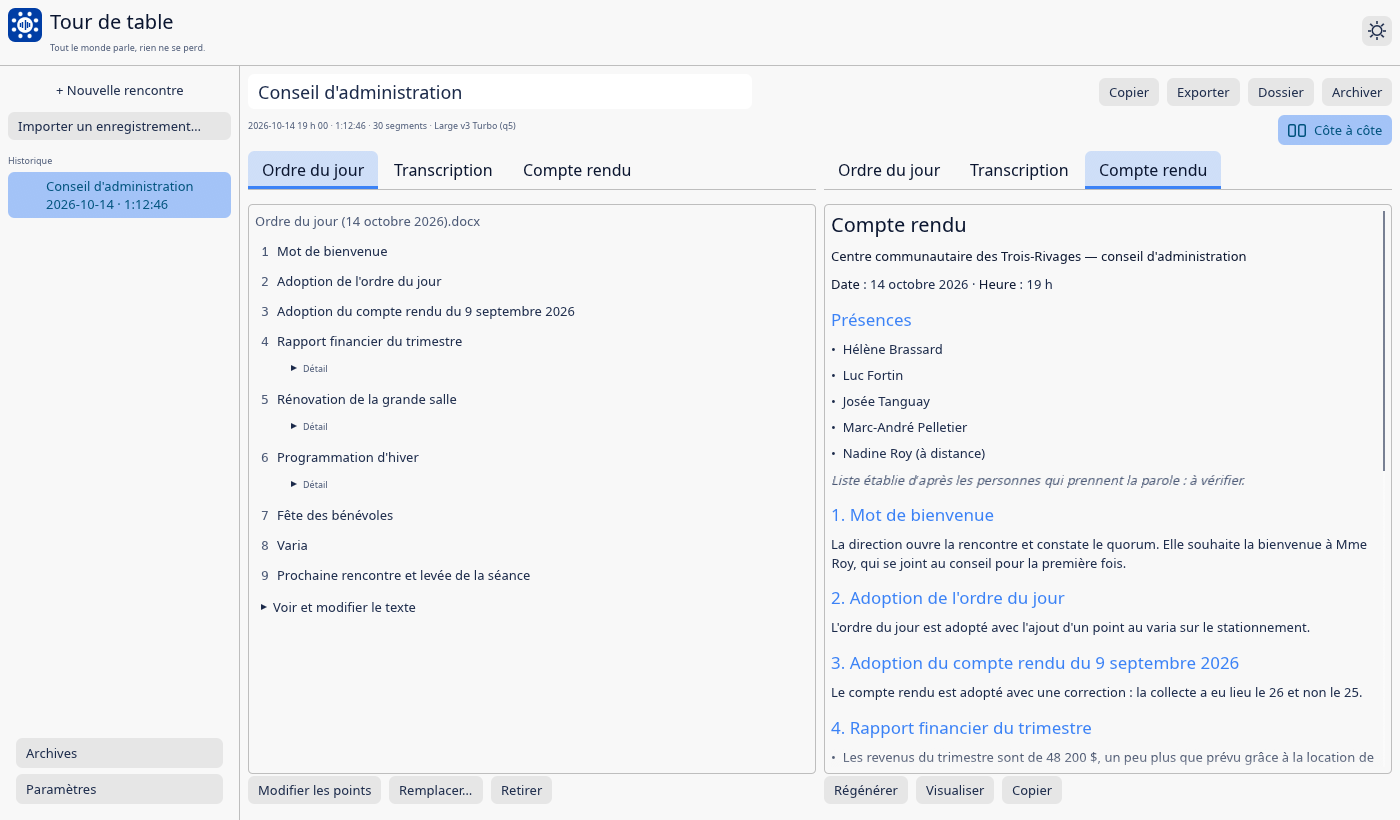
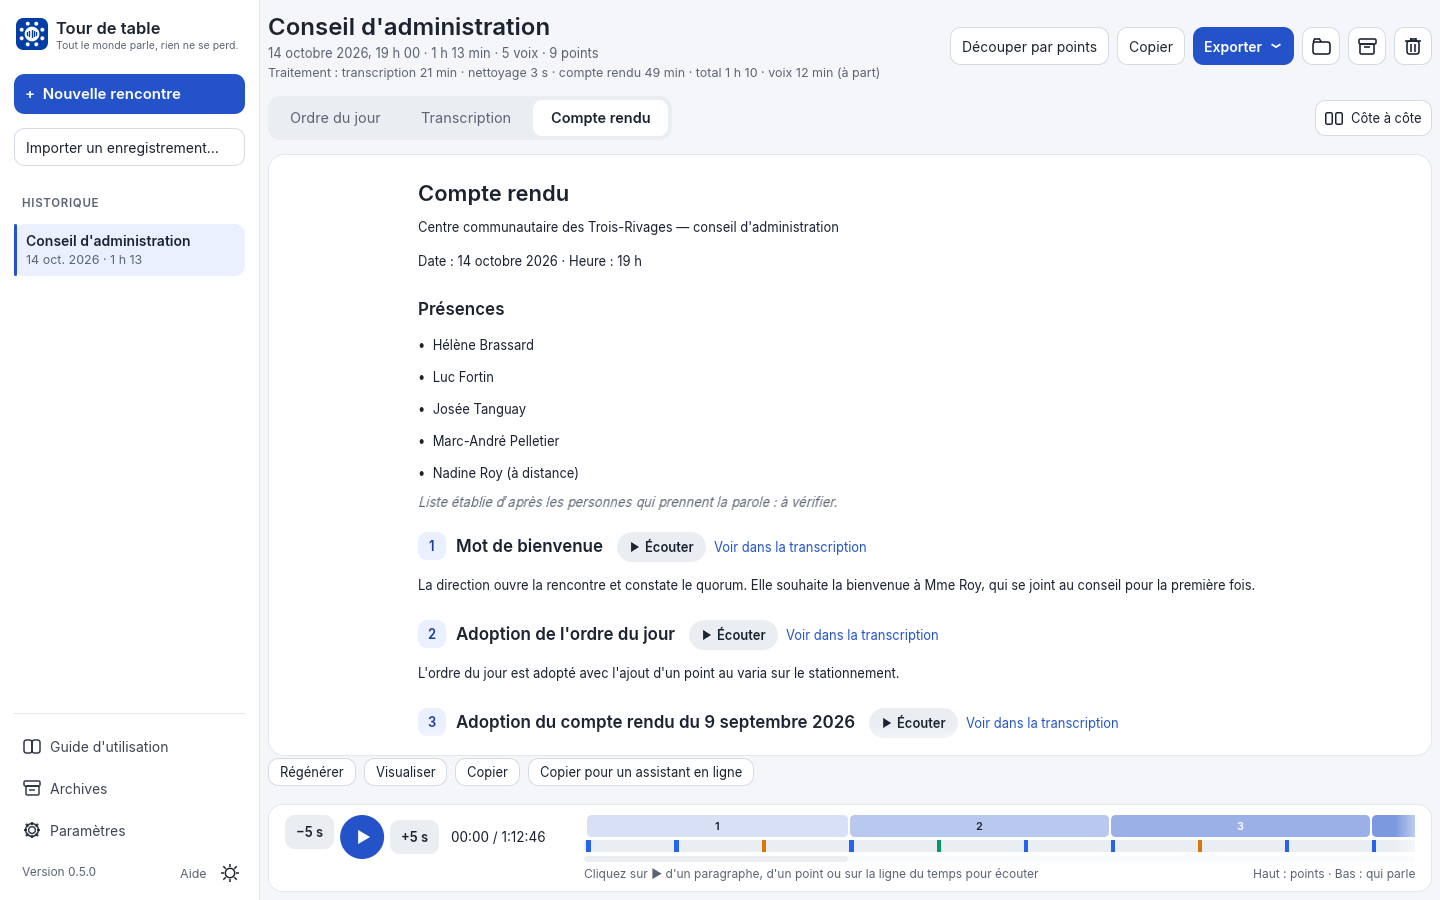
README : capture et textes de la nouvelle interface (0.5)
Capture du compte rendu tirée du guide 0.5.1 (rencontre fictive). Voix en direct,
présences tirées des voix nommées, écran « Nouvelle rencontre », découpage dans la
transcription, lecteur au bas de la fiche, bouton du thème, modèle de rédaction et
liste des fichiers mis à jour. Aucune nouvelle version.

diff --git a/README.md b/README.md
@@ -34,7 +34,7 @@ Inspiré de [Meetily](https://github.com/Zackriya-Solutions/meetily), réécrit 
 | Interface | WebView (navigateur embarqué) | egui natif (rendu GPU) |
 | Taille | Plusieurs centaines de Mo | **42 Mo** à télécharger sous Windows, 11 Mo sous macOS et Linux (whisper.cpp et llama.cpp inclus) |
 | RAM au repos | WebView + Python | **~0,7 Go**, modèle Whisper déjà chargé (démarrage instantané) |
-| Compte rendu | Ollama ou service infonuagique à configurer | **Qwen3.5 9B ou Qwen3.6 35B intégré**, rédigé point par point selon l'ordre du jour |
+| Compte rendu | Ollama ou service infonuagique à configurer | **Qwen3.6 35B-A3B intégré** (Qwen3.5 9B sur les Mac de moins de 24 Go), rédigé point par point selon l'ordre du jour |
 | Langue | Générique | **Français québécois** (invite, typographie OQLF, lexique) |
 
 ## Pourquoi Rust?
@@ -134,7 +134,14 @@ Pour une rencontre plus ancienne : bouton « Reconnaître les voix » de l'ongle
 * Réglage fixe, sans paramètre : les voix de moins de 30 secondes de parole (rires, deux personnes à
   la fois) sont écartées. Sur trois rencontres d'essai, on retrouve le nombre de personnes, parfois
   avec une voix de plus ; un changement de volume ne change presque rien.
-* Le compte rendu ne lit pas encore les voix : leur effet sur la rédaction reste à mesurer.
+* Le compte rendu se sert des voix nommées pour les présences ; le texte rédigé ne lit pas encore les voix : leur
+  effet sur la rédaction reste à mesurer.
+
+**Voix en direct.** Pendant un enregistrement ou un import, Tour de table montre déjà qui parle : pastilles en
+pointillé dans la transcription et carte « Qui parle », où l'on peut nommer les voix sans attendre la fin. Ces voix
+sont provisoires (recalculées chaque minute, une voix apparaît après 30 s de parole) ; à la fin, le calcul complet
+les remplace et reprend les noms donnés aux voix qui parlent aux mêmes moments. Le calcul tourne dans un processus
+à part, sur un seul cœur (environ 4 % du temps réel).
 
 ## Ordre du jour et compte rendu
 
@@ -251,7 +258,8 @@ d'impression), `couverture.html` et des captures de `docs/guide/captures/` (thè
    Internet, et elle n'a lieu qu'une fois (Hugging Face). Vous pouvez fermer l'application en
    cours de route : l'installation reprend là où elle s'était arrêtée au démarrage suivant.
 2. Au besoin, choisissez le micro et la sortie audio dans **Paramètres** (« Par défaut » convient
-   le plus souvent), puis cliquez sur **Démarrer**.
+   le plus souvent). Sur l'écran **Nouvelle rencontre**, déposez l'ordre du jour si vous l'avez, cochez ce qu'on
+   enregistre (micro de la salle, son de l'ordinateur), puis cliquez sur **Démarrer l'enregistrement**.
 3. La transcription s'affiche au fil de la rencontre et elle est sauvegardée après chaque phrase.
    Vous ne perdez donc rien en cas de panne.
 4. À l'arrêt : **Rédiger le compte rendu** (modèle de langue local), **Exporter** (Markdown,
@@ -267,10 +275,10 @@ transcrits l'un après l'autre (la progression s'affiche par bloc).
 
 À la fin de la transcription, avec un ordre du jour, l'application range l'audio par point
 d'après les annonces reconnues (« on passe au point 3… »), sans rien demander. Sans ordre du
-jour, tout reste hors point. Le bouton « Découper par points » de la fiche ouvre au besoin un
-écran de vérification : l'heure de début de chaque point et la phrase qui l'a déclenchée ; on
-peut écouter 10 s autour de chaque frontière, la déplacer, en ajouter ou en retirer, puis
-valider.
+jour, tout reste hors point. Pour corriger, le bouton « Découper par points » de la fiche affiche la
+transcription ligne par ligne : un clic sur une ligne y fait commencer un point, un clic sur l'en-tête d'un point
+permet d'en changer, de le déplacer d'une ligne ou de le retirer, et le lecteur fait entendre le passage.
+« Valider le découpage » range ensuite l'audio par point.
 
 **Compte rendu automatique** : si un ordre du jour est joint (déposé avant l'import ou avant de
 démarrer la rencontre), le compte rendu est rédigé dès la fin du nettoyage de la transcription
@@ -284,14 +292,15 @@ autre fenêtre. Sous Windows, l'icône montre aussi l'avancement de l'import et 
 comme une barre de progression. Le bouton **Visualiser** de la fiche ouvre le compte rendu dans
 Word (`compte-rendu.docx`).
 
-**Réécouter** : dans l'onglet Transcription, le bouton ▶ d'un paragraphe fait entendre son audio ; dans le compte
-rendu d'une rencontre découpée par points, chaque titre de point a un bouton ▶ (l'audio du point, tous ses
-passages bout à bout) et « Voir dans la transcription », qui l'ouvre à côté du compte rendu pour comparer. Une barre au bas du volet donne Pause, Arrêter et
-l'avancement. L'audio est lu par morceaux de 20 s, jamais chargé en entier ; pas d'écoute pendant un
-enregistrement (le son de l'ordinateur serait capté).
+**Réécouter** : un lecteur est fixé au bas de la fiche. La lecture part du bouton ▶ d'un paragraphe de la
+transcription, du bouton « Écouter » d'un point du compte rendu, ou d'un clic sur la ligne du temps, qui montre les
+points (en haut) et qui parle (en bas) ; elle continue ensuite d'elle-même, avec des bonds de 5 s en arrière ou en
+avant, et la transcription suit le paragraphe entendu. « Voir dans la transcription » ouvre le passage d'un point à
+côté du compte rendu pour comparer. L'audio est lu par morceaux de 20 s, jamais chargé en entier ; pas d'écoute
+pendant un enregistrement (le son de l'ordinateur serait capté).
 
 **Paramètres** : seulement le micro et la sortie audio, la question sur les haut-parleurs de la
-salle et le lexique. Tout le reste (modèles, performance, détection de voix, conservation de
+salle et le lexique. Le thème clair ou foncé se change par le bouton au bas de la colonne de gauche. Tout le reste (modèles, performance, détection de voix, conservation de
 l'audio, compte rendu automatique) est décidé par l'application.
 
 Ligne de commande, pour transcrire un enregistrement existant (il devient une rencontre du
@@ -417,7 +426,9 @@ modification, régénérez la page avec
 ```
 src/
   main.rs        point d'entrée (interface ou --transcrire)
-  ui/mod.rs      interface egui : état, boucle, barre du haut, historique
+  ui/mod.rs      interface egui : état, boucle, historique
+  ui/colonne.rs  colonne de gauche : nouvelle rencontre, historique, guide, archives, paramètres, thème, menu Aide
+  ui/nouvelle.rs écran « Nouvelle rencontre »
   ui/live.rs     rencontre en cours, import, contrôles
   ui/past.rs     fiche d'une rencontre, compte rendu
   ui/onglets.rs  onglets de la fiche (ordre du jour, transcription, compte rendu), un volet ou deux côte à côte
@@ -425,7 +436,10 @@ src/
   ui/agenda.rs   ordre du jour
   ui/settings.rs Paramètres
   ui/installation.rs installation des modèles au premier démarrage
-  ui/widgets.rs  composants, couleurs, logo vectoriel
+  ui/apparence.rs palettes des thèmes clair et foncé, police Inter, boutons, cartes, pastilles
+  ui/widgets.rs  transcription, Markdown, logo vectoriel
+  ui/suppression.rs « Supprimer définitivement » et « Annuler l'import »
+  ui/arriere_plan.rs fenêtre fermée pendant un travail (Windows) ; zone_notification.rs, notification.rs, instance.rs
   audio/mod.rs   capture micro + loopback par plateforme
   audio/dsp.rs   mono, rééchantillonnage 16 kHz (FIR), détection de voix, découpage
   recorder.rs    session : alignement horloge, mixage, changement de point
@@ -437,6 +451,7 @@ src/
   voix.rs        reconnaissance des voix, processus tourdetable --voix (calcul par tourdetable-voix)
   regroupement.rs regroupement des empreintes de voix (liaison moyenne, seuil fixe)
   ui/voix.rs     file de la reconnaissance des voix, « Nommer les voix »
+  voix_direct.rs voix provisoires pendant l'enregistrement, processus tourdetable --voix-direct
   models.rs      modèles (Whisper, rédaction), téléchargement et vérification
   agenda.rs      lecture de l'ordre du jour (Word, PDF, texte)
   summary.rs     compte rendu par le modèle intégré (découpage des longues rencontres)
@@ -444,11 +459,12 @@ src/
   audio/import.rs  import d'enregistrements (MP4, M4A, MP3, WAV, FLAC, OGG), décodage en flux
   audio/frontieres.rs  rangement par point de l'audio d'un import (ou « Découper par points »)
   audio/lecture.rs écoute par morceaux : frontière, paragraphe, point (pause, avancement)
-  ui/ecoute.rs   écoute dans la fiche : barre de lecture, arrêt au changement de rencontre
-  ui/verification.rs  vérification des frontières proposées
+  ui/ecoute.rs   lecteur fixe au bas de la fiche : lecture continue, ligne du temps des points et des voix
+  ui/mode_decoupage.rs « Découper par points » dans la transcription
+  ui/verification.rs  vérification des frontières proposées à la fin d'un import
+  cli.rs         commandes --transcrire et --compte-rendu
 redaction/       programme auxiliaire de rédaction (llama.cpp), séparé à cause de ggml
 voix/            programme auxiliaire de reconnaissance des voix (sherpa-onnx), séparé à cause de std::regex
-  cli.rs         commandes --transcrire et --compte-rendu
 ```
 
 Fils d'exécution : `audio` (capture → 16 kHz → VAD → énoncés) → `whisper` (transcription) →
